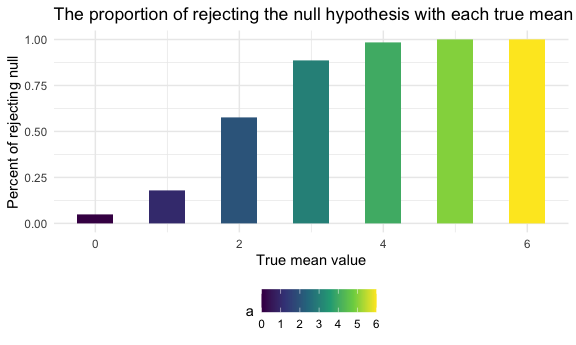
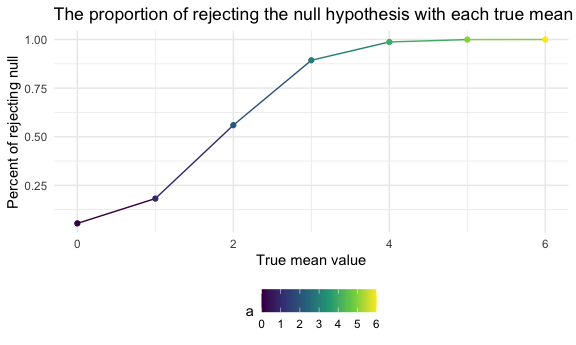
Add a new plot

diff --git a/p8105_hw5_tj2519.md b/p8105_hw5_tj2519.md
@@ -244,8 +244,9 @@ df_complete %>%
   group_by(a) %>% 
   summarize(rej = sum(p_value < 0.05), 
             total = n()) %>% 
-  ggplot(aes(x = a, y = rej/total, fill = a)) +
-  geom_bar(stat = "identity", width = 0.5) +
+  ggplot(aes(x = a, y = rej/total, color = a)) +
+  geom_line() +
+  geom_point() +
   labs(title = "The proportion of rejecting the null hypothesis with each true mean",
        x = "True mean value",
        y = "Percent of rejecting null")
@@ -269,12 +270,26 @@ df_complete %>%
   ggplot(aes(x = a, y = avg, color = a)) +
   geom_line() +
   geom_point() +
-  labs(title = "The average estimates of observations where null hypothesis is rejected",
+  labs(title = "The average estimates of all observations",
        x = "True mean value",
        y = "average estiamte")
 ```
 
 <img src="p8105_hw5_tj2519_files/figure-gfm/unnamed-chunk-14-1.png" width="90%" />
+
+``` r
+df_complete %>% 
+  group_by(a) %>% 
+  summarize(avg = mean(estimate)) %>% 
+  ggplot(aes(x = a, y = avg, color = a)) +
+  geom_line() +
+  geom_point() +
+  labs(title = "The average estimates of observations where null hypothesis is rejected",
+       x = "True mean value",
+       y = "average estiamte")
+```
+
+<img src="p8105_hw5_tj2519_files/figure-gfm/unnamed-chunk-14-2.png" width="90%" />
 According to the plot, except for 0, the average value of the estimates
 in samples for which the null was rejected is getting closer and closer
 to the true value as the true mean is getting larger. This occurs
